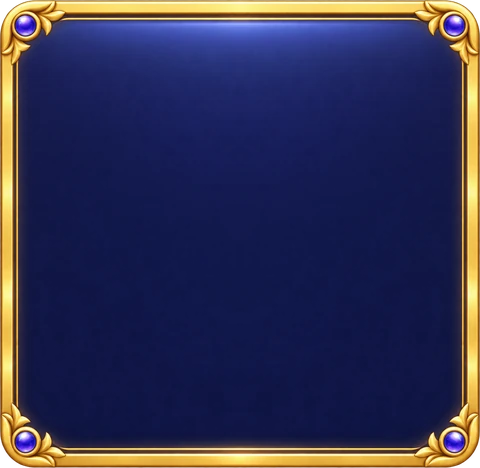
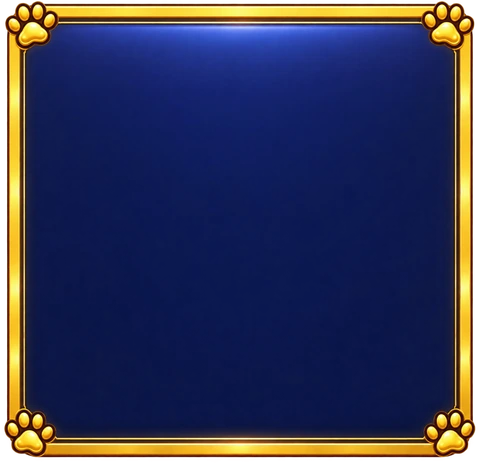
배포: v0.9.301 공통 판은 원래 남색 금테로 되돌리고 네 귀퉁이 장식만 네 발가락 강아지 발바닥(Codex)으로

Changed region(s): [[0.0, 0.0, 1.0, 1.0]]

diff --git a/index.html b/index.html
@@ -970,7 +970,7 @@
   /* ── v0.9.126 레벨 창 · 캐릭터 설명판 새 옷 — 밤하늘 남색 판 + 금테(Codex panel_navy, 9칸 늘림) + 초승달 장식(panel_orn) ── */
   :root { --pnGold: #ffd86b; --pnText: #eef0ff; --pnSub: #a9b1e4; }
   .lvCard { position: relative; width: 100%; box-sizing: border-box; padding: 22px 18px 18px; color: var(--pnText); display: flex; flex-direction: column; gap: 8px;
-    border-style: solid; border-width: 0; border-color: transparent; border-image: url(assets/ui/panel_wood.webp) 72 fill / 35px / 0 stretch; }
+    border-style: solid; border-width: 0; border-color: transparent; border-image: url(assets/ui/panel_navy.webp) 66 fill / 33px / 0 stretch; }
   .lvHead { display: flex; justify-content: space-between; align-items: center; }
   .lvHead b { font-size: 16px; font-weight: 900; color: #fff; text-shadow: 0 2px 0 rgba(0,0,0,.45); }
   .lvHead em, .lvPop .chrHead em { font-style: normal; font-weight: 900; font-size: 23px; letter-spacing: .5px;
@@ -1035,7 +1035,7 @@
   .lvPop { position: fixed; inset: 0; z-index: 9990; display: none; align-items: center; justify-content: center; background: rgba(4,5,22,.72); }
   .lvPop.on { display: flex; }
   .lvPop .lpIn { position: relative; width: min(95vw, 384px); box-sizing: border-box; display: flex; flex-direction: column; gap: 10px; padding: 36px 14px 16px; margin-top: 18px;
-    color: var(--pnText); border-style: solid; border-width: 0; border-color: transparent; border-image: url(assets/ui/panel_wood.webp) 72 fill / 35px / 0 stretch;
+    color: var(--pnText); border-style: solid; border-width: 0; border-color: transparent; border-image: url(assets/ui/panel_navy.webp) 66 fill / 33px / 0 stretch;
     filter: drop-shadow(0 12px 26px rgba(0,0,0,.6)); animation: lpShow .22s ease-out; }
   @keyframes lpShow { from { transform: scale(.9); opacity: 0; } }
   .lvPop .lpBody { display: flex; flex-direction: column; gap: 10px; max-height: calc(86vh - 130px); overflow-y: auto; margin: 0 -4px; padding: 2px 4px 4px; scrollbar-width: thin; scrollbar-color: rgba(255,216,107,.5) transparent; }
@@ -1254,7 +1254,7 @@
   #homeJobs .carDots i.on { background: #ffd23f; box-shadow: 0 0 6px rgba(255,210,63,.8); }
   #homeTraits {
     width: 100%; max-width: 340px; min-height: 92px; box-sizing: border-box; padding: 22px 30px 22px; margin-top: 14px;   /* v0.9.120 판 안쪽 크림색 칸(위 9%·아래 15% 테두리) 가운데에 글이 오게 */ position: relative;
-    border-style: solid; border-width: 0; border-color: transparent; border-image: url(assets/ui/panel_wood.webp) 72 fill / 32px / 0 stretch;   /* v0.9.126 크림 판 → 남색 금테 */
+    border-style: solid; border-width: 0; border-color: transparent; border-image: url(assets/ui/panel_navy.webp) 66 fill / 30px / 0 stretch;   /* v0.9.126 크림 판 → 남색 금테 */
     color: #f1f3ff; text-shadow: 0 1px 2px rgba(0,0,0,.55); font-size: 13.5px; font-weight: 700; line-height: 1.5; text-align: center;
     display: flex; flex-direction: column; justify-content: center; gap: 1px;
   }
@@ -1313,7 +1313,7 @@
   #bookCount { color: #e6e9ff; font-weight: 800; }
   #shopCoins { font-size: 15px; }
   #bookList { box-sizing: border-box; padding: 18px 16px 18px; gap: 8px; max-width: 372px;
-    border-style: solid; border-width: 0; border-color: transparent; border-image: url(assets/ui/panel_wood.webp) 72 fill / 32px / 0 stretch; }
+    border-style: solid; border-width: 0; border-color: transparent; border-image: url(assets/ui/panel_navy.webp) 66 fill / 30px / 0 stretch; }
   #bookList .bk { border-radius: 12px; border: 1.5px solid rgba(130,155,255,.5);
     background: radial-gradient(120% 90% at 50% 18%, #3d46ad, #232870 55%, #181b4f 100%);
     box-shadow: inset 0 1px 0 rgba(180,195,255,.45), inset 0 -3px 6px rgba(0,0,20,.45), 0 2px 0 #0a0c2a; }
@@ -1327,7 +1327,7 @@
   #bookList .bk.lock::after { right: -4px; bottom: -5px; font-size: 12px; }
   #bookList .bk.sel { outline: 0; border-color: #ffd86b; box-shadow: inset 0 0 0 1px #fff3b0, 0 0 12px rgba(255,200,60,.75), 0 2px 0 #3a2400; }
   #bookDesc { padding: 4px 10px; min-height: 92px; flex-shrink: 0; border-radius: 0; display: block; background: none; border-style: solid; border-width: 24px 20px 24px !important; border-color: transparent;
-    border-image: url(assets/ui/panel_wood.webp) 72 fill / 32px / 0 stretch; color: #eef0ff; text-shadow: 0 1px 2px rgba(0,0,0,.5); }
+    border-image: url(assets/ui/panel_navy.webp) 66 fill / 30px / 0 stretch; color: #eef0ff; text-shadow: 0 1px 2px rgba(0,0,0,.5); }
   #bookDesc b { color: #ffd86b; }
   .shopSub { color: #e6e9ff; font-weight: 800; padding: 3px 12px; border-radius: 999px; background: rgba(8,10,34,.55); }
   .shopItem { position: relative; border-radius: 14px; border: 1.5px solid rgba(130,155,255,.55);
@@ -1393,7 +1393,7 @@
   /* v0.9.290 도감 — 페이지는 안 움직이고(제목 고정) 금테 판 안의 아이콘만 스크롤. 설명은 판 아래 말풍선 */
   #startScreen > #pgBook { overflow: hidden; }
   #pgBook #bookFrame { flex: 1 1 0; min-height: 0; width: 100%; max-width: 372px; display: flex; box-sizing: border-box; padding: 14px 8px;
-    border-style: solid; border-width: 0; border-color: transparent; border-image: url(assets/ui/panel_wood.webp) 72 fill / 32px / 0 stretch; }
+    border-style: solid; border-width: 0; border-color: transparent; border-image: url(assets/ui/panel_navy.webp) 66 fill / 30px / 0 stretch; }
   #pgBook #bookList { flex: 1 1 auto; min-height: 0; max-width: none; overflow-y: auto; overscroll-behavior: contain; touch-action: pan-y;
     border-image: none; padding: 6px 8px 10px; align-content: start; scrollbar-width: none;
     -webkit-mask-image: linear-gradient(180deg, transparent 0, #000 10px, #000 calc(100% - 14px), transparent 100%);
@@ -1819,7 +1819,7 @@
   #overScreen, #pauseScreen { gap: 14px; }
   .gPanel { position: relative; width: min(92vw, 360px); box-sizing: border-box; display: flex; flex-direction: column; align-items: center; gap: 8px;
     padding: 34px 16px 18px; margin-top: 22px; border-style: solid; border-width: 0; border-color: transparent;
-    border-image: url(assets/ui/panel_wood.webp) 72 fill / 35px / 0 stretch; filter: drop-shadow(0 10px 22px rgba(0,0,0,.55)); }
+    border-image: url(assets/ui/panel_navy.webp) 66 fill / 33px / 0 stretch; filter: drop-shadow(0 10px 22px rgba(0,0,0,.55)); }
   .gPanel > h2.gTtl, #pauseScreen .gPanel > h2.gTtl, #overScreen .gPanel > h2.gTtl {
     position: absolute; left: 50%; top: -23px; transform: translateX(-50%); margin: 0; z-index: 2; height: 46px; box-sizing: border-box; width: max-content; min-width: 58%;
     border-style: solid; border-color: transparent; border-width: 0 46px; border-image: url(assets/ui/ribbon.webp) 0 125 fill / 0 46px / 0 stretch;
@@ -1929,7 +1929,7 @@
   #weekPeriod:empty { display: none; }
 
   /* ── v0.9.166 나의 순위 ── */
-  #pgRank #myBoard { border-width: 22px 14px 14px !important; border-image: url(assets/ui/panel_wood.webp) 72 fill / 32px / 0 stretch !important; margin-top: 30px; }
+  #pgRank #myBoard { border-width: 22px 14px 14px !important; border-image: url(assets/ui/panel_navy.webp) 66 fill / 30px / 0 stretch !important; margin-top: 30px; }
   #pgRank #myBoard > h3 { height: 38px; line-height: 30px; font-size: 13.5px; font-weight: 900; border-width: 0 38px; border-image-width: 0 38px; margin-top: -42px; }
   #myRank { display: flex; flex-direction: column; gap: 5px; padding: 0 4px; }
   /* v0.9.294 나의 순위 — 이번 주 최고(캐릭터·전체 순위·캐릭터 순위) / 역대 최고(캐릭터·전체 순위) 두 장 */
@@ -2015,8 +2015,8 @@
   #lastNav .lnBtn:disabled { opacity: .25; filter: grayscale(1); }
 
   /* ── v0.9.135 랭킹판 — 캐릭터 성장 창과 같은 양식: 남색 금테 판(panel_navy) · 큰 금색 리본 제목 · 유리 같은 남색 칸 ── */
-  #pgRank .board { border-width: 24px 16px 18px !important; border-image: url(assets/ui/panel_wood.webp) 72 fill / 35px / 0 stretch !important; padding: 2px 4px 4px; margin-top: 24px; }
-  #pgRank #lastBoard { border-width: 22px 14px 14px !important; border-image: url(assets/ui/panel_wood.webp) 72 fill / 32px / 0 stretch !important; margin-top: 30px; }
+  #pgRank .board { border-width: 24px 16px 18px !important; border-image: url(assets/ui/panel_navy.webp) 66 fill / 33px / 0 stretch !important; padding: 2px 4px 4px; margin-top: 24px; }
+  #pgRank #lastBoard { border-width: 22px 14px 14px !important; border-image: url(assets/ui/panel_navy.webp) 66 fill / 30px / 0 stretch !important; margin-top: 30px; }
   #pgRank .board > h3 { height: 42px; line-height: 34px; font-size: 15px; font-weight: 900; letter-spacing: .5px; border-width: 0 42px; border-image-width: 0 42px; margin: -46px auto 4px; }
   #pgRank #lastBoard > h3 { height: 38px; line-height: 30px; font-size: 13.5px; font-weight: 900; border-width: 0 38px; border-image-width: 0 38px; margin-top: -42px; }
   #pgRank .board.withTabs .note { top: auto; bottom: -21px; right: 6px; }   /* 리본 날개와 안 겹치게 판 아래 오른쪽으로 */
@@ -2574,7 +2574,7 @@
   const elTitle = document.getElementById("overTitle");
   const coinNote = document.getElementById("coinNote");
 
-  const GAME_VERSION = "v0.9.300";
+  const GAME_VERSION = "v0.9.301";
   /* 제작사 스플래시(bamhobak friends 로고) — 2026-09-20 끔. 다시 켜려면 true */
   const SPLASH_USE = false;   // 코드를 고칠 때마다 뒤 두 자리를 올린다
   document.getElementById("ver").textContent = GAME_VERSION;
